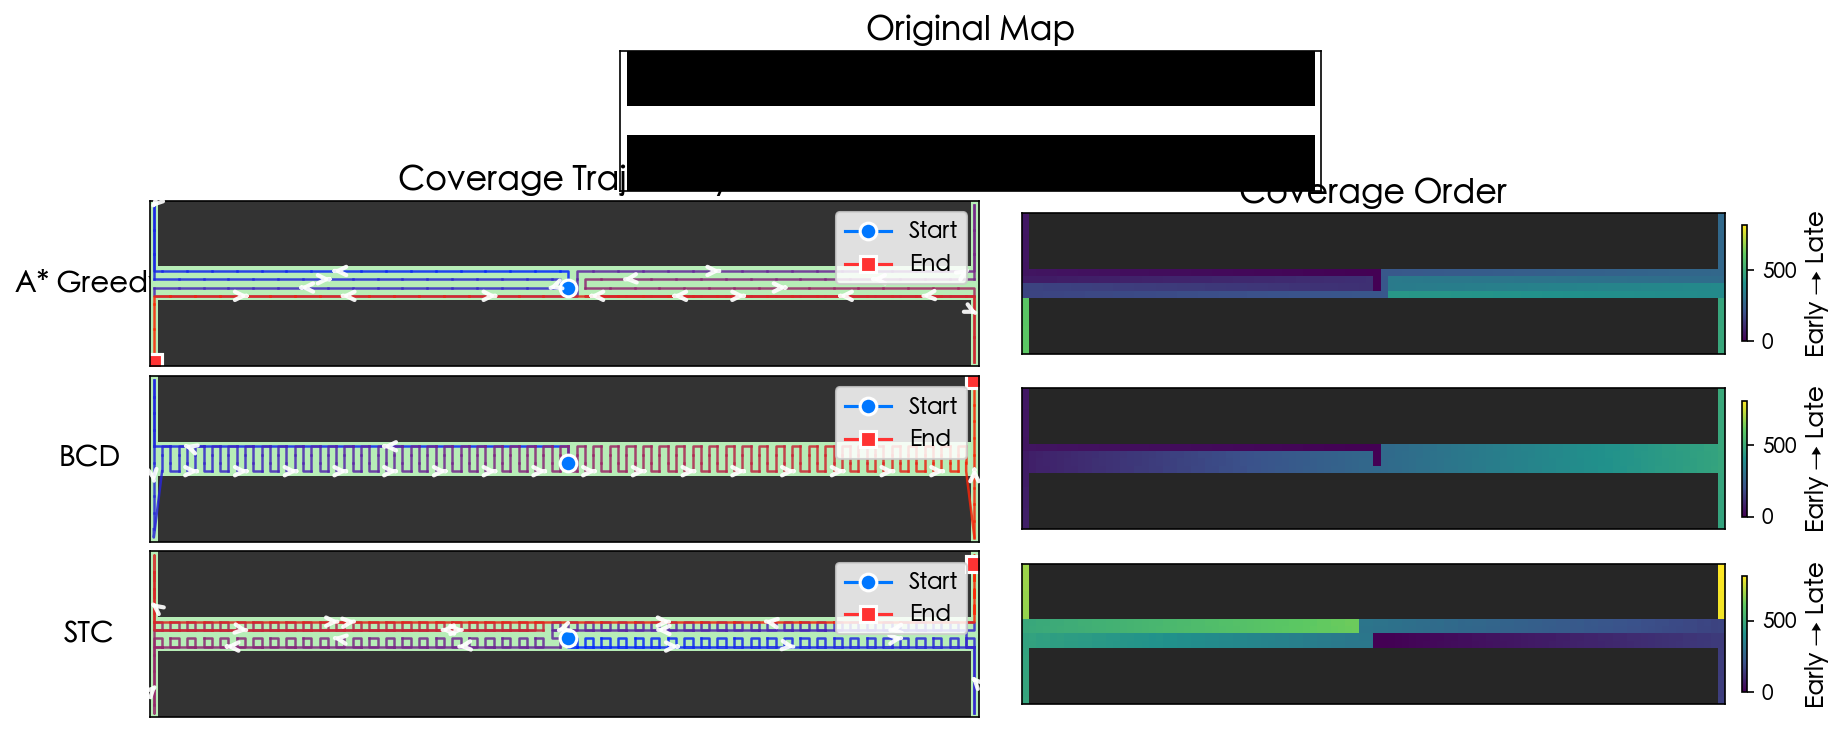
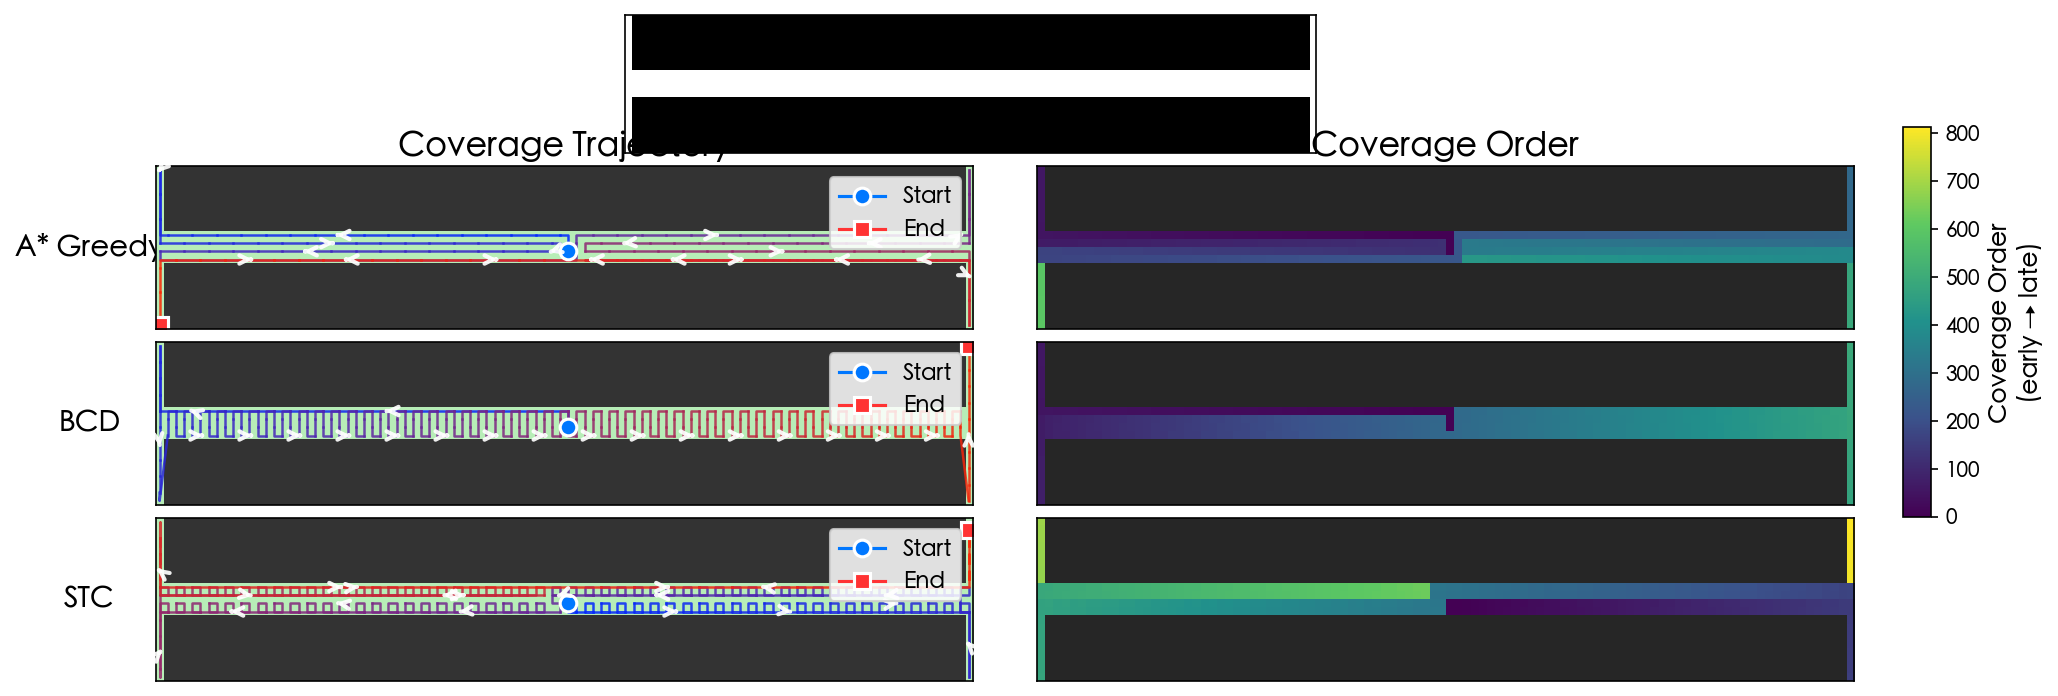
Fix text overlap and equalize subplot sizes
- Remove 'Original Map' title from raw map to prevent overlap with
  'Coverage Trajectory' title below
- Increase hspace from 0.06→0.08 for better title clearance
- Move colour bar outside the GridSpec to a shared right-side axes,
  so all three heatmap subplots have the same plot area as trajectories
- Each heatmap now gets add_cbar=False in comparison view

diff --git a/visualization/plotter.py b/visualization/plotter.py
@@ -143,7 +143,7 @@ class CoveragePlotter:
         gs = GridSpec(n + 1, 3,
                       height_ratios=[0.22] + [0.26] * n,
                       width_ratios=[0.04, 1, 1],
-                      hspace=0.06, wspace=0.06)
+                      hspace=0.08, wspace=0.06)
 
         # Row 0: original map
         ax_map = fig.add_subplot(gs[0, :])
@@ -168,13 +168,24 @@ class CoveragePlotter:
                 show_title=(i == 0)
             )
 
-            # Heatmap (title only on first row)
+            # Heatmap — no individual colorbar; shared one below
             ax_heat = fig.add_subplot(gs[row, 2])
             self._plot_coverage_heatmap(
                 ax_heat, grid, path, covered,
                 vmin=0, vmax=max_path_len,
-                show_title=(i == 0)
+                show_title=(i == 0),
+                add_cbar=False,
             )
+
+        # ── shared colour bar on the right ──
+        if max_path_len > 0:
+            norm_obj = plt.Normalize(vmin=0, vmax=max_path_len)
+            sm = plt.cm.ScalarMappable(cmap=COVERAGE_CMAP, norm=norm_obj)
+            sm.set_array([])
+            cax = fig.add_axes([0.915, 0.30, 0.012, 0.45])
+            cbar = fig.colorbar(sm, cax=cax)
+            cbar.set_label('Coverage Order\n(early → late)',
+                           fontsize=self._cbar_fs)
 
         plt.tight_layout()
         os.makedirs(output_dir, exist_ok=True)
@@ -191,7 +202,6 @@ class CoveragePlotter:
 
     def _plot_raw_map(self, ax: plt.Axes, grid: np.ndarray) -> None:
         ax.imshow(grid, cmap='gray_r', interpolation='nearest')
-        ax.set_title('Original Map', fontsize=self._title_fs, pad=4)
         ax.set_xticks([])
         ax.set_yticks([])
 
@@ -292,6 +302,7 @@ class CoveragePlotter:
         vmin: float = 0.0,
         vmax: Optional[float] = None,
         show_title: bool = True,
+        add_cbar: bool = True,
     ) -> None:
         height, width = grid.shape
         vmax = vmax or float(len(path))
@@ -317,8 +328,8 @@ class CoveragePlotter:
         ax.set_xticks([])
         ax.set_yticks([])
 
-        # Shared colour bar (only on the last heatmap in comparison)
-        if vmax and vmax > 0:
+        # Colour bar (optional, for comparison plot we use a shared one)
+        if add_cbar and vmax and vmax > 0:
             norm_obj = plt.Normalize(vmin=0, vmax=max(vmax, 1))
             sm = plt.cm.ScalarMappable(cmap=COVERAGE_CMAP, norm=norm_obj)
             sm.set_array([])
